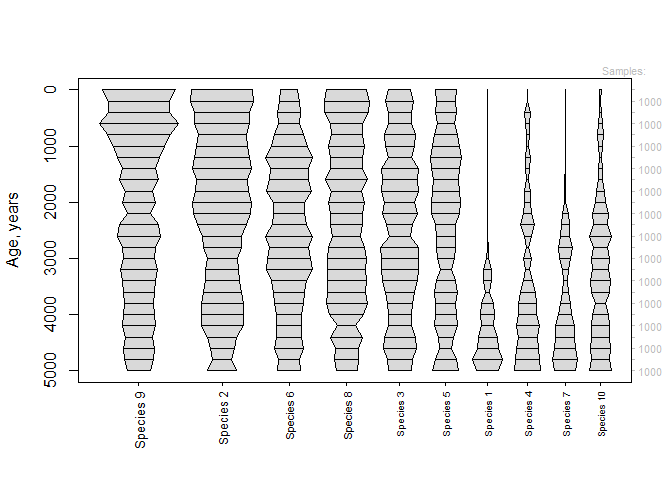
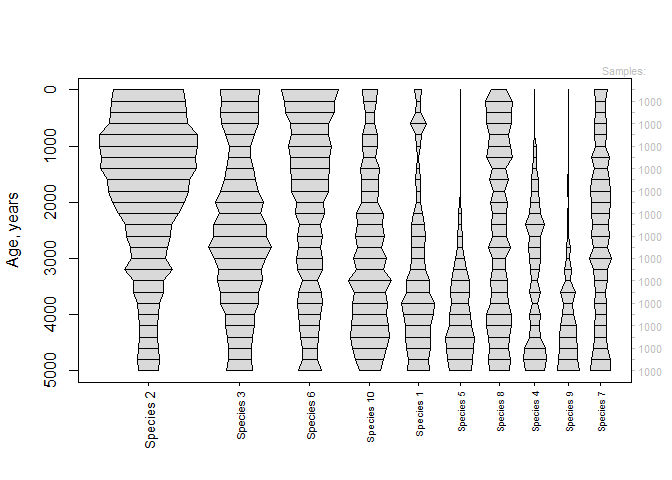
more readme activity

diff --git a/README.md b/README.md
@@ -32,6 +32,7 @@ tslength <- 5000 #run for 5000 timesteps
 every <- 200 #sample every 200 timesteps...
 ss <- 1000 #...and sample 1,000 individuals (with replacement) when you do
 ages <- seq(0,tslength,every)
+set.seed(1)
 X <- simNT(startingabs=rep(J/nsp,nsp),ts=ages,ss=1000)
 plot_spindles(X$simulation,X$times)
 ```
@@ -43,11 +44,11 @@ Find the best-fit J for this simulated timeseries:
 ``` r
 fitJ(occs=X$simulation,ages=X$times,CI=TRUE)
 #> $loglik
-#> [1] 523.34
+#> [1] 513.0276
 #> 
 #> $J
-#> [1] 47489.84
+#> [1] 42415.75
 #> 
 #> $CI
-#> [1] 35979.38 63191.87
+#> [1] 32343.11 55906.94
 ```
